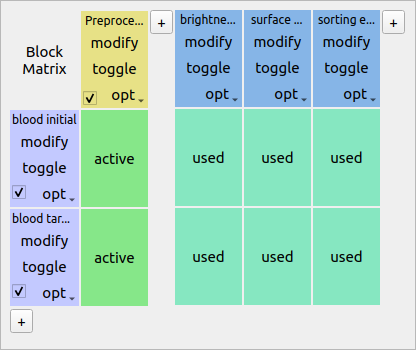
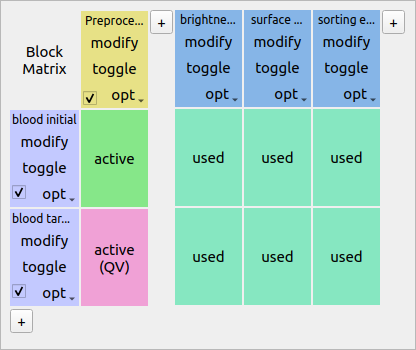
docs: update interface section

Changed region(s): [[0.1875, 0.6, 0.375, 0.8857]]

diff --git a/shapeout2/gui/quick_view/qv_main.py b/shapeout2/gui/quick_view/qv_main.py
@@ -7,6 +7,7 @@ from PyQt5 import uic, QtCore, QtWidgets
 import pyqtgraph as pg
 from scipy.ndimage import binary_erosion
 
+from ..compute.comp_stats import STAT_METHODS
 from .. import idiom
 
 
@@ -599,7 +600,8 @@ class QuickView(QtWidgets.QWidget):
             features = [self.comboBox_x.currentData(),
                         self.comboBox_y.currentData()]
             h, v = dclab.statistics.get_statistics(ds=self.rtdc_ds,
-                                                   features=features)
+                                                   features=features,
+                                                   methods=STAT_METHODS)
             self.tableWidget_stat.set_key_vals(keys=h, vals=v)
 
     def update_feature_choices(self):

diff --git a/docs/scrots/make_scrots.py b/docs/scrots/make_scrots.py
@@ -82,6 +82,12 @@ pf = dclab.PolygonFilter(filename="CD66+_CD14-.poly")
 mw.widget_quick_view.pushButton_poly_create.click()
 mw.widget_quick_view.lineEdit_poly.setText("CD66⁺/CD14⁻")
 mw.widget_quick_view.widget_scatter.set_poly_points(pf.points)
+# show an even
+cellimg, imkw = mw.widget_quick_view.get_event_image(
+    mw.widget_quick_view.rtdc_ds,
+    42)
+mw.widget_quick_view.imageView_image_poly.setImage(cellimg, **imkw)
+mw.widget_quick_view.imageView_image_poly.show()
 QApplication.processEvents()
 mw.widget_quick_view.grab().save("_ui_qv_poly.png")
 

diff --git a/docs/sec_interface.rst b/docs/sec_interface.rst
@@ -84,22 +84,28 @@ Block Matrix
     :align: right
     :scale: 65%
 
-The Block Matrix on the left gives an overview of the current analysis
-pipeline. Each row represents a dataset. The purple rectangular area
-at the beginning of each row allows you to perform dataset operations
-in your analysis pipeline: To modify a dataset, click on the *modify*
+The Block Matrix gives an overview of the current analysis
+pipeline. Each row represents a dataset (purple). The columns represent
+either filters (yellow) or plots (blue) of your pipeline.
+
+You can perform dataset operations in the purple rectangular area
+at the beginning of each row: To modify a dataset, click on the *modify*
 button. You can duplicate, insert anew (unmodified), or remove datasets
 using the dropdown menu. You can also exclude a dataset from an analysis
 via the check box.
 
-The columns represent either filters (yellow) or plots (blue) of your
-pipeline. Filters can also be modified, copied, removed and disabled.
+Filters can also be modified, copied, removed and disabled.
 By default, all filters are disabled when they are created. To apply a filter
 to a dataset, click on the corresponding matrix element. The element changes
-its color from gray to green to indicate that the filter is active. In
-Shape-Out, all filters that are applied to a dataset are called a **filter ray**.
+its color from gray (incactive) to green (active). In Shape-Out, all
+filters that are applied to a dataset are called a **filter ray**.
 In the above example, the filter ray only consists of a single filter for each
 dataset. Filter rays may be different for each dataset. 
+
+By holding down the *Shift* key while clicking on a matrix element, you
+can activate the :ref:`Quick View <sec_quick_view>` for the specific
+dataset (with filters applied up until the selected column). The block matrix
+element is then colored pink.
 
 To add a plot, click on the *New Plot* button in the tool bar. This adds
 a plot column with a blue header to the Block Matrix and creates an empty
@@ -138,7 +144,7 @@ The analysis view is separated into four tabs (see screenshots below).
   *Scatter plot* section (allows you the specify whether the scatter
   data points are colored according to a kernel density estimate (KDE),
   another feature dimension, or the dataset color specified in the
-  *Dataset* tab. In this example, contour plots are not used.
+  *Dataset* tab). In this example, contour plots are not used.
 
 .. image:: scrots/ui_ana_meta.png
     :target: _images/ui_ana_meta.png
@@ -161,16 +167,32 @@ The analysis view is separated into four tabs (see screenshots below).
 
 Quick View
 ----------
+The Quick View is meant for dataset exploration. It consists of a scatter plot
+on the left and a set of tool panels that are accessible via the corresponding
+tool buttons on the right.
+
+
+Use the **Plot** panel to define all plot parameters. It also displays
+common statistics of the two features plotted.
 
 .. image:: scrots/ui_qv_settings.png
     :target: _images/ui_qv_settings.png
     :scale: 65%
 
+The **Event** panel displays all parameters of an individual event. You can
+select single events by clicking in the scatter plot or by scrolling through
+*Index* spin control. If available, the event image is shown alongside the
+fluorescence trace of the event. All features of the event are listed in a
+separate tab.
+
 .. image:: scrots/ui_qv_event.png
     :target: _images/ui_qv_event.png
     :scale: 65%
 
+The **Polygon Filter** panel allows you to create and modify polygon filters.
+When the panel is active you can move the mouse pointer across the scatter
+plot and the image of the event closest to the mouse pointer is displayed.
+
 .. image:: scrots/ui_qv_poly.png
     :target: _images/ui_qv_poly.png
     :scale: 65%
-        
